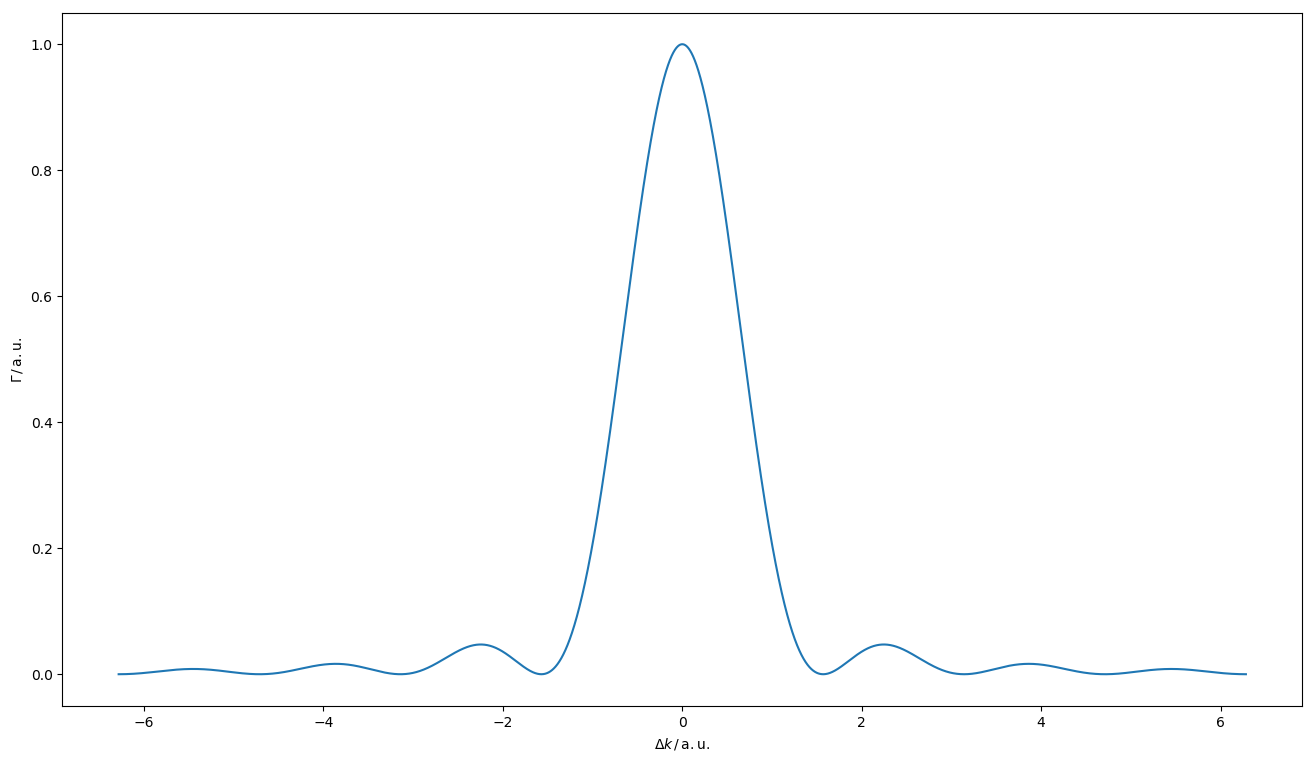
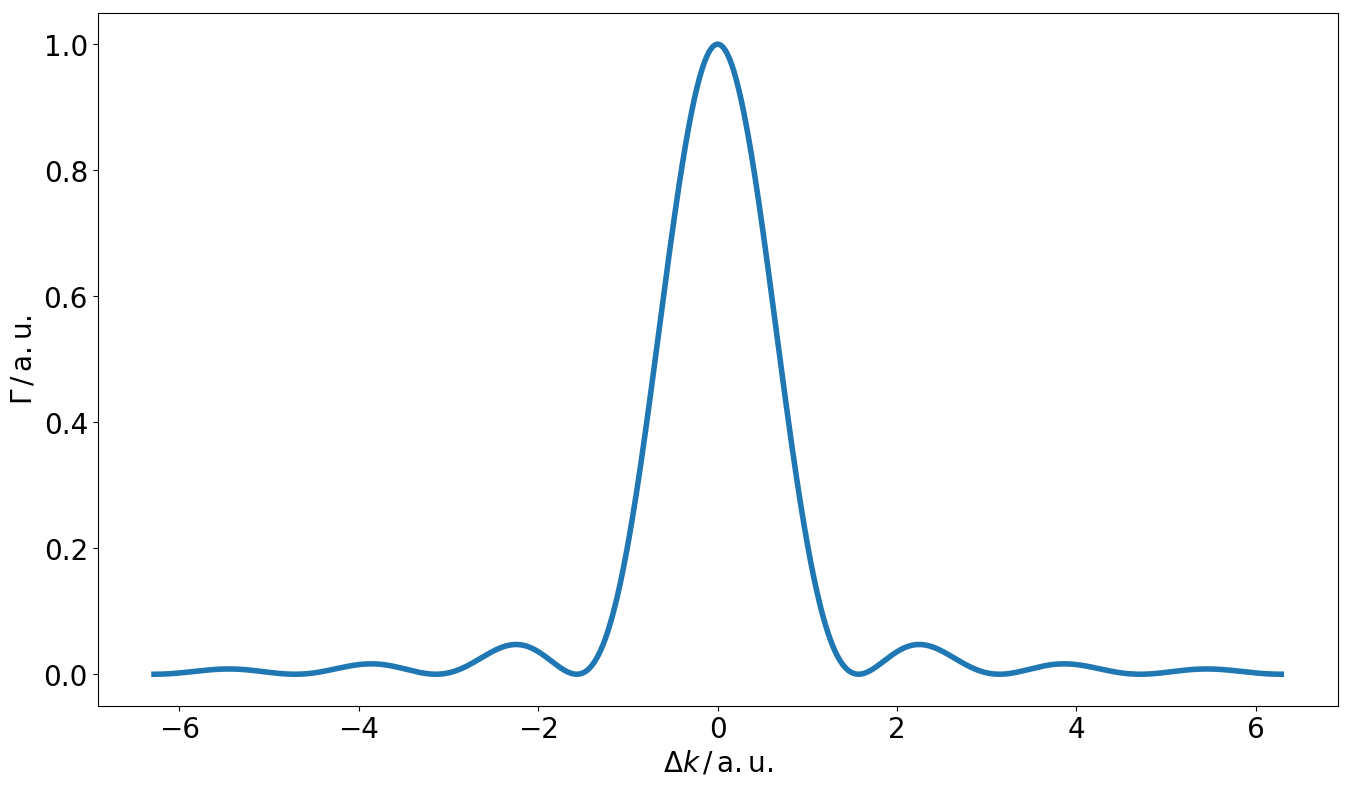
further modifications

diff --git a/nonlinear_optics/presentation_elements/phase_matching/efficiency_plot/I_plot.py b/nonlinear_optics/presentation_elements/phase_matching/efficiency_plot/I_plot.py
@@ -10,8 +10,10 @@ Dk = np.linspace(-2*np.pi, 2*np.pi, 1e5)
 
 
 plt.figure(figsize=(16, 9))
-plt.plot(Dk, I(Dk))
-plt.ylabel(r'$\Gamma \, / \, \mathrm{a.u.} $')
-plt.xlabel(r'$\Delta k \, / \, \mathrm{a.u.} $')
+plt.plot(Dk, I(Dk), linewidth=4)
+
+plt.ylabel(r'$\Gamma \, / \, \mathrm{a.u.} $', fontsize=20)
+plt.xlabel(r'$\Delta k \, / \, \mathrm{a.u.} $', fontsize=20)
+plt.tick_params(axis='both', labelsize=20)
 
 plt.savefig('./efficiency_second_harmonic.png',  bbox_inches='tight')
